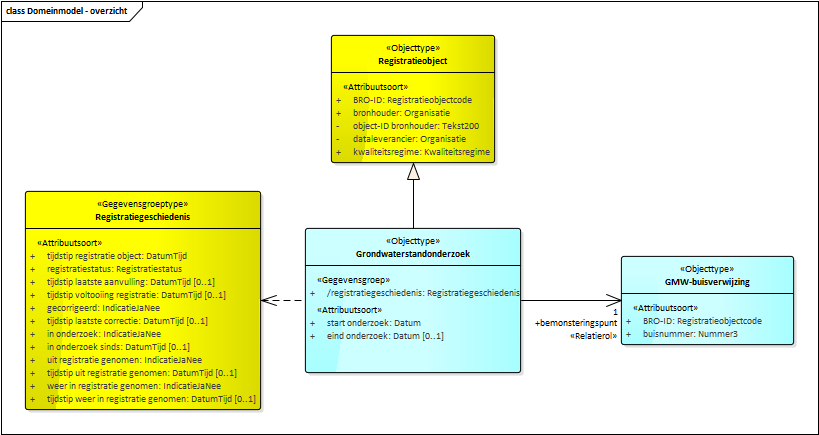
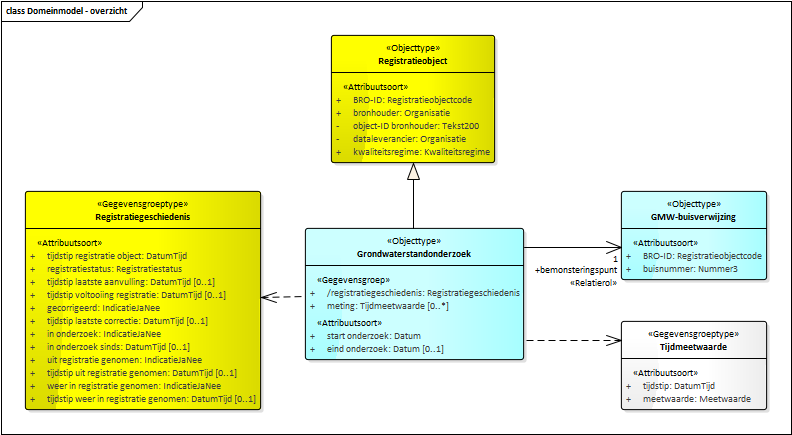
Conceptualmodel-GrondwaterstandonderzoekGLD-0.1-1-20190617-20190619-142115

diff --git a/data/GLD-cat.html b/data/GLD-cat.html
@@ -2,11 +2,12 @@
 <section id="cat" class="normative" level="1">
    <h2>Catalogus</h2>
    <p><b>Deze tekst is normatief.</b>
-      <!--Conceptualmodel-GrondwaterstandonderzoekGLD-0.1-1-20190617-20190619-110029 imvertor 1.53.1--></p>
+      <!--Conceptualmodel-GrondwaterstandonderzoekGLD-0.1-1-20190617-20190619-142115 imvertor 1.53.1--></p>
    <div class="imageinfo overview"><img src="data/Images/EAID_08E27657_5603_4b75_BB8B_47B282A97D63.png" usemap="#imagemap-EAID_08E27657_5603_4b75_BB8B_47B282A97D63"><map name="imagemap-EAID_08E27657_5603_4b75_BB8B_47B282A97D63">
+         <area shape="rect" coords="621,410,767,321" alt="" href="#graph_EAID_5FC959F0_5ED2_47e7_8C6C_68C408128425">
          <area shape="rect" coords="25,410,261,191" alt="" href="#graph_EAID_0D009A59_1E9A_4fc2_867A_9006A9464AA7">
-         <area shape="rect" coords="621,345,794,256" alt="" href="#graph_EAID_3337CDCE_0A5D_4aee_AEB0_14AF7652B102">
-         <area shape="rect" coords="305,373,521,228" alt="" href="#graph_EAID_5876720F_795D_40b5_82B8_BC782B71FA3A">
+         <area shape="rect" coords="621,280,767,191" alt="" href="#graph_EAID_3337CDCE_0A5D_4aee_AEB0_14AF7652B102">
+         <area shape="rect" coords="305,360,524,228" alt="" href="#graph_EAID_5876720F_795D_40b5_82B8_BC782B71FA3A">
          <area shape="rect" coords="331,163,495,35" alt="" href="#graph_EAID_04FC4CF0_BE4E_421a_A62C_E3F00BED26A0"></map><p><b>Domeinmodel - overzicht</b></p>
    </div>
    <section id="" level="3">
@@ -470,6 +471,47 @@
                      
                   </td>
                   <td>0 .. 1</td>
+               </tr>
+               <tr>
+                  <td>
+                     <a class="link" href="#detail_class_Model_Tijdmeetwaarde">meting (Tijdmeetwaarde)</a>
+                     :
+                  </td>
+                  <td></td>
+                  <td></td>
+                  <td>0 .. *</td>
+               </tr>
+               <tr>
+                  <td>- 
+                     <a class="link" href="#detail_attribute_Model_Tijdmeetwaarde_tijdstip">tijdstip</a>
+                     
+                  </td>
+                  <td>
+                     
+                     <p xmlns="http://www.w3.org/1999/xhtml" xmlns:html="http://www.w3.org/1999/xhtml" xmlns:imvert="http://www.imvertor.org/schema/system">Het tijdstip waarop de grondwaterstand is gemeten</p>
+                     
+                  </td>
+                  <td>
+                     <a class="link" href="#global_class_xsdateTime">DatumTijd</a>
+                     
+                  </td>
+                  <td>1</td>
+               </tr>
+               <tr>
+                  <td>- 
+                     <a class="link" href="#detail_attribute_Model_Tijdmeetwaarde_meetwaarde">meetwaarde</a>
+                     
+                  </td>
+                  <td>
+                     
+                     <p xmlns="http://www.w3.org/1999/xhtml" xmlns:html="http://www.w3.org/1999/xhtml" xmlns:imvert="http://www.imvertor.org/schema/system">De grondwaterstand, als diepte in meter.</p>
+                     
+                  </td>
+                  <td>
+                     <a class="link" href="#global_class_gmlMeasure">Meetwaarde</a>
+                     
+                  </td>
+                  <td>1</td>
                </tr>
             </tbody>
          </table>
@@ -2010,6 +2052,20 @@
                      <td>BRO</td>
                   </tr>
                   <tr>
+                     <th>Toelichting</th>
+                     <td>
+                        
+                        <p xmlns="http://www.w3.org/1999/xhtml" xmlns:html="http://www.w3.org/1999/xhtml" xmlns:imvert="http://www.imvertor.org/schema/system">Als dit gegeven niet aanwezig is, dan krijgt het gegeven registratiestatus van de
+                           gegevensgroep Registratiegeschiedenis de waarde geregistreerd.
+                        </p>
+                        
+                        <p xmlns="http://www.w3.org/1999/xhtml" xmlns:html="http://www.w3.org/1999/xhtml" xmlns:imvert="http://www.imvertor.org/schema/system">Als dit gegeven aanwezig is of wordt toegevoegd, dan krijgt het gegeven registratiestatus
+                           van de gegevensgroep Registratiegeschiedenis de waarde voltooid.
+                        </p>
+                        
+                     </td>
+                  </tr>
+                  <tr>
                      <th>Mogelijk geen waarde</th>
                      <td>Nee</td>
                   </tr>
@@ -2054,6 +2110,144 @@
                   </tr>
                </tbody>
             </table>
+            
+         </section>
+         <a class="anchor" name="graph_EAID_5FC959F0_5ED2_47e7_8C6C_68C408128425"></a><a class="anchor" name="detail_class_Model_Tijdmeetwaarde"></a><section id="detail_class_Model_Tijdmeetwaarde" level="5">
+            <h5>Gegevensgroeptype details <a href="#global_class_Model_Grondwaterstandonderzoek">Grondwaterstandonderzoek</a> Tijdmeetwaarde
+            </h5>
+            
+            <table>
+               <colgroup width="30%"></colgroup>
+               <colgroup width="70%"></colgroup>
+               <tbody>
+                  <tr>
+                     <th>Naam</th>
+                     <td>Tijdmeetwaarde</td>
+                  </tr>
+                  <tr>
+                     <th>Herkomst</th>
+                     <td>BRO</td>
+                  </tr>
+                  <tr>
+                     <th>Herkomst definitie</th>
+                     <td>BRO</td>
+                  </tr>
+                  <tr>
+                     <th>Indicatie authentiek</th>
+                     <td>Authentiek</td>
+                  </tr>
+               </tbody>
+            </table>
+            
+            <section id="detail_attribute_Model_Tijdmeetwaarde_tijdstip" class="notoc" level="6">
+               <h6>Attribuutsoort tijdstip  Tijdmeetwaarde</h6>
+               
+               <table>
+                  <tbody>
+                     <tr></tr>
+                     <tr>
+                        <th>Naam</th>
+                        <td>tijdstip</td>
+                     </tr>
+                     <tr>
+                        <th>Herkomst</th>
+                        <td>BRO</td>
+                     </tr>
+                     <tr>
+                        <th>Definitie</th>
+                        <td>
+                           
+                           <p xmlns="http://www.w3.org/1999/xhtml" xmlns:html="http://www.w3.org/1999/xhtml" xmlns:imvert="http://www.imvertor.org/schema/system">Het tijdstip waarop de grondwaterstand is gemeten</p>
+                           
+                        </td>
+                     </tr>
+                     <tr>
+                        <th>Herkomst definitie</th>
+                        <td>BRO</td>
+                     </tr>
+                     <tr>
+                        <th>Mogelijk geen waarde</th>
+                        <td>Nee</td>
+                     </tr>
+                     <tr>
+                        <th>Indicatie materiële historie</th>
+                        <td>Nee</td>
+                     </tr>
+                     <tr>
+                        <th>Indicatie formele historie</th>
+                        <td>Nee</td>
+                     </tr>
+                     <tr>
+                        <th>Indicatie kardinaliteit</th>
+                        <td>1</td>
+                     </tr>
+                     <tr>
+                        <th>Indicatie authentiek</th>
+                        <td>Authentiek</td>
+                     </tr>
+                     <tr>
+                        <th>Formaat</th>
+                        <td>DatumTijd</td>
+                     </tr>
+                  </tbody>
+               </table>
+               
+            </section>
+            
+            <section id="detail_attribute_Model_Tijdmeetwaarde_meetwaarde" class="notoc" level="6">
+               <h6>Attribuutsoort meetwaarde  Tijdmeetwaarde</h6>
+               
+               <table>
+                  <tbody>
+                     <tr></tr>
+                     <tr>
+                        <th>Naam</th>
+                        <td>meetwaarde</td>
+                     </tr>
+                     <tr>
+                        <th>Herkomst</th>
+                        <td>BRO</td>
+                     </tr>
+                     <tr>
+                        <th>Definitie</th>
+                        <td>
+                           
+                           <p xmlns="http://www.w3.org/1999/xhtml" xmlns:html="http://www.w3.org/1999/xhtml" xmlns:imvert="http://www.imvertor.org/schema/system">De grondwaterstand, als diepte in meter.</p>
+                           
+                        </td>
+                     </tr>
+                     <tr>
+                        <th>Herkomst definitie</th>
+                        <td>BRO</td>
+                     </tr>
+                     <tr>
+                        <th>Mogelijk geen waarde</th>
+                        <td>Nee</td>
+                     </tr>
+                     <tr>
+                        <th>Indicatie materiële historie</th>
+                        <td>Nee</td>
+                     </tr>
+                     <tr>
+                        <th>Indicatie formele historie</th>
+                        <td>Nee</td>
+                     </tr>
+                     <tr>
+                        <th>Indicatie kardinaliteit</th>
+                        <td>1</td>
+                     </tr>
+                     <tr>
+                        <th>Indicatie authentiek</th>
+                        <td>Authentiek</td>
+                     </tr>
+                     <tr>
+                        <th>Formaat</th>
+                        <td>Meetwaarde</td>
+                     </tr>
+                  </tbody>
+               </table>
+               
+            </section>
             
          </section>
          <a class="anchor" name="detail_association_Model_Grondwaterstandonderzoek_bemonsteringspunt"></a><section id="detail_association_Model_Grondwaterstandonderzoek_bemonsteringspunt" level="5">
@@ -2250,7 +2444,7 @@
 <section id="lis" class="normative" level="1">
    <h2>Inhoud van waardenlijsten</h2>
    <p><b>Deze tekst is normatief.</b>
-      <!--Conceptualmodel-GrondwaterstandonderzoekGLD-0.1-1-20190617-20190619-110029 imvertor 1.53.1--></p><a class="anchor" name="graph_EAID_740CAB3C_79DD_4730_9E98_E6FA02EB5243"></a><a class="anchor" name="detail_class_Model_Registratiestatus"></a><section id="detail_class_Model_Registratiestatus" level="3">
+      <!--Conceptualmodel-GrondwaterstandonderzoekGLD-0.1-1-20190617-20190619-142115 imvertor 1.53.1--></p><a class="anchor" name="graph_EAID_740CAB3C_79DD_4730_9E98_E6FA02EB5243"></a><a class="anchor" name="detail_class_Model_Registratiestatus"></a><section id="detail_class_Model_Registratiestatus" level="3">
       <h3>Codelijst details Registratiestatus</h3>
       
       <table>
